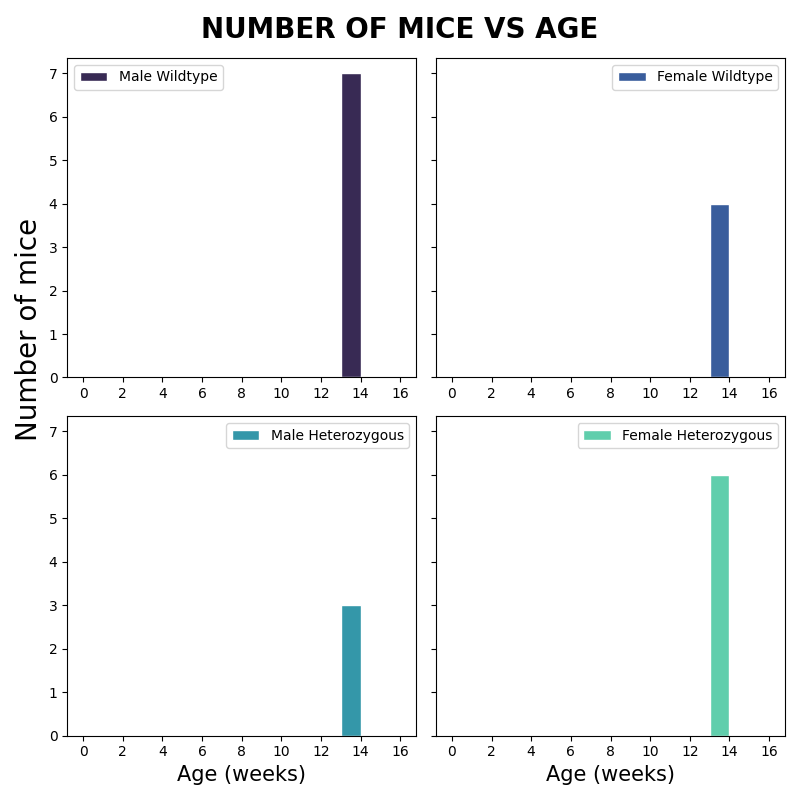
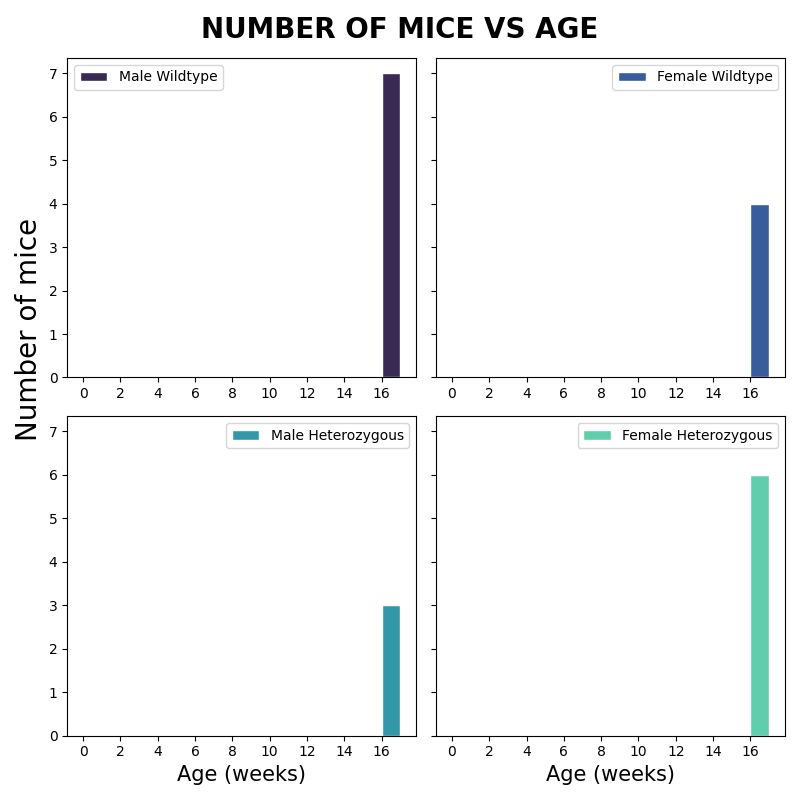
Fixed length of table saved in excel sample book
There was a mistake in the initialization of the longest_list_size in the code that prevented it to extract the data to excel sheet when the longest list was in the first location of d2.

diff --git a/code/combined_gui.py b/code/combined_gui.py
@@ -72,7 +72,7 @@ class Application(tk.Tk):
         # Call methods
         self.configure_basic_tk_properties()
         self.pack_all()
-        
+
 # reset button not programmed yet
     def configure_basic_tk_properties(self):
         """This method configures the basic tkinter esthetic properties for the GUI
@@ -154,6 +154,7 @@ class Application(tk.Tk):
         self.textbox4.insert(tk.END, self.cal.selection_get())
         self.final_month = self.cal.selection_get().strftime("%B")
 # pack and reset button not placed yet, just packed
+
     def pack_all(self):
 
         self.mainFrame1.place(x=0, y=0, height=600, width=1950)
@@ -184,6 +185,7 @@ class Application(tk.Tk):
         self.canvas1.place(x=100, y=40, height=600, width=800)
         self.canvas2.place(x=1000, y=40, height=600, width=800)
 # Data tale path reproducible to other devices, not only for this one
+
     def open_excel_file_location(self):
         """Open the File Explorer to select desired excel file
         """
@@ -196,6 +198,7 @@ class Application(tk.Tk):
         with open(filepath1, "r"):
             self.textbox1.insert(tk.END, filepath1)
 # Save path now reproducible to other devices, not only for this one
+
     def save_results(self):
         """Open the file Explorer to select desired location to save results
         """
@@ -261,12 +264,13 @@ class Application(tk.Tk):
         birth_FWt = []
         birth_MHet = []
         birth_FHet = []
-        
+
         for index, rows in df_MWt.iterrows():
             a = str(n_df['Date_of_birth'][index])
             birth_MWt.append(a[:10])
         print(len(birth_MWt))
 
+# There are 4 loops that are doing the same thing. There should be a way to reduce this
         df_FWt = pd.DataFrame(n_df.loc[(self.df['Sex'] == 'Female') & (
             n_df['Genotype'] == 'Wildtype') & (n_df['Status'] == 'Alive')])
 
@@ -289,9 +293,9 @@ class Application(tk.Tk):
             birth_FHet.append(a[:10])
 
         birthday = [birth_MWt, birth_FWt, birth_MHet, birth_FHet]
-        total_data = [df_MWt, df_FWt, df_MHet, df_FHet]
+        # total_data = [df_MWt, df_FWt, df_MHet, df_FHet]
         print(n_df)
-       
+
         self.d2 = []
 
         for i in range(len(birthday)):
@@ -299,19 +303,13 @@ class Application(tk.Tk):
             d1 = []
             j = 0
             for j in range(len(birthday[i])):
+
                 a1 = str(self.final_date)
-                print(a1)
                 aa = dt.strptime(a1, "%Y-%m-%d")
-
                 b1 = str(birthday[i][j])
-                print(b1)
                 bb = dt.strptime(b1, "%Y-%m-%d")
-                
                 bd = abs((bb - aa).days)
-                print(bd)
-
                 age_in_weeks = bd//7
-                print(age_in_weeks)
 
                 d1.append(age_in_weeks)
                 j = j + 1
@@ -335,7 +333,7 @@ class Application(tk.Tk):
         if len(self.d4) == 4:
             self.b = 3
         else:
-            self.b = int(max(self.d3))+4
+            self.b = int(max(self.d3))+1
 
         for i in range(self.b):
             self.listy.append(i)
@@ -351,7 +349,7 @@ class Application(tk.Tk):
         f = fig.gca()
         # ax.xaxis.set_major_locator(MaxNLocator(integer=True))
         # ax.yaxis.set_major_locator(MaxNLocator(integer=True))
-        
+
         f.hist(self.d2, bins=self.listy, color=self.colors)
         f.set_xlabel(r'Age (weeks)', fontsize=15)
         f.set_ylabel(r'Number of mice', fontsize=15)
@@ -361,11 +359,13 @@ class Application(tk.Tk):
         f.legend(['M_WT', 'F_WT', 'M_HET', 'F_HET'])
 
         if self.init_month != self.final_month:
-            self.plot_name = str(self.init_month) + "-"  + str(self.final_month) + "_histogram"
+            self.plot_name = str(self.init_month) + "-" + \
+                str(self.final_month) + "_histogram"
         else:
             self.plot_name = str(self.init_month) + "_histogram"
 
-        filepath_hist_plot = str(filepath2) + "/" + str(self.plot_name) + ".png"
+        filepath_hist_plot = str(filepath2) + "/" + \
+            str(self.plot_name) + ".png"
         hist_plot = fig.savefig(filepath_hist_plot)
 
         return fig
@@ -414,11 +414,13 @@ class Application(tk.Tk):
                      horizontalalignment='center', fontweight="bold", fontsize=20)
 
         if self.init_month != self.final_month:
-            self.plot_4_name = str(self.init_month) + "-"  + str(self.final_month) 
+            self.plot_4_name = str(self.init_month) + \
+                "-" + str(self.final_month)
         else:
             self.plot_4_name = str(self.init_month)
 
-        self.filepath_4_plot = str(filepath2) + "/" + str(self.plot_4_name)+".png"
+        self.filepath_4_plot = str(filepath2) + "/" + \
+            str(self.plot_4_name)+".png"
         hist_4_plot = plt.savefig(self.filepath_4_plot)
         self.hist_4_plot = openpyxl.drawing.image.Image(self.filepath_4_plot)
 
@@ -474,21 +476,21 @@ class FolderManager(Application):
     def create_jpeg_from_figures(self):
         pass
 
+
 class ExcelDevelopement(Application):
 
     def __init__(self):
 
         self.create_excel_workbook_months()
-    
+
     def create_excel_workbook_months(self):
 
-        d2 = [[6 ,6 ,6 ,5 ,5, 2, 2, 2, 2, 1, 0], [4, 3, 3, 2, 2, 1, 1, 1, 1, 0, 0, 0, 0], [0], [3, 1, 0]]
-        [[1, 1, 1, 1, 1, 0], [2, 2, 1, 1, 0], [2, 1, 1, 1, 0], [2, 1, 1, 1, 1]]
+        d2 = [[4, 4, 4, 4, 4, 4, 4], [4, 4, 4, 4], [4, 4, 4], [4, 4, 4, 4, 4, 4]]
         months_2021_excel_wb = Workbook()
-        worksheet_month_ws =  months_2021_excel_wb.active
+        worksheet_month_ws = months_2021_excel_wb.active
         worksheet_month_ws.title = "Changed Sheet"
 
-        longest_list_size = 0
+        longest_list_size = len(d2[0])
         list_dic = []
         i = 0
         j = 0
@@ -496,47 +498,49 @@ class ExcelDevelopement(Application):
         l = 0
 
         for k in range(4):
-                if len(d2[k])>len(d2[0]):
-                        longest_list_size = len(d2[k]) 
+            if len(d2[k]) > len(d2[0]):
+                longest_list_size = len(d2[k])
+            
 
-        dic_mic={}
-        for longest_list_size in range(longest_list_size,-1,-1):
-                dic_mic.setdefault(longest_list_size,[]).append(0)
+        dic_mic = {}
+        for longest_list_size in range(longest_list_size, -1, -1):
+            dic_mic.setdefault(longest_list_size, []).append(0)
 
         list_of_dic = []
-        data = ['Male Wildtype', 'Female Wildtype', 'Male Heterozygous', 'Female Heterozygous']
+        data = ['Male Wildtype', 'Female Wildtype',
+                'Male Heterozygous', 'Female Heterozygous']
 
         for i in range(4):
-                
-                dic_mice = dict()
-                num_of_mice = []
-                age_mice_weeks = []
-                for j in range(len(d2[i])):
 
-                        if d2[i][j] not in age_mice_weeks:
-                                age_mice_weeks.append(d2[i][j])
-                                num_of_mice = d2[i].count(d2[i][j])
-                                dic_mice.setdefault(d2[i][j],[]).append(num_of_mice)
+            dic_mice = dict()
+            num_of_mice = []
+            age_mice_weeks = []
+            for j in range(len(d2[i])):
 
-                dic_mice = {key: dic_mice.get(key, dic_mic[key]) for key in dic_mic}
-                df = pd.DataFrame.from_dict(dic_mice) 
-                list_dic.append(df)
-                
-                print(data[i])
-                print(df.to_string(index=False))
+                if d2[i][j] not in age_mice_weeks:
+                    age_mice_weeks.append(d2[i][j])
+                    num_of_mice = d2[i].count(d2[i][j])
+                    dic_mice.setdefault(d2[i][j], []).append(num_of_mice)
+
+            dic_mice = {key: dic_mice.get(
+                key, dic_mic[key]) for key in dic_mic}
+            df = pd.DataFrame.from_dict(dic_mice)
+            list_dic.append(df)
+
+            print(data[i])
+            print(df.to_string(index=False))
         print(list_dic)
 
         result = pd.concat(list_dic)
-        print(result.to_string( index = False))
+        print(result.to_string(index=False))
 
-        rows = dataframe_to_rows(result,index = False)
+        rows = dataframe_to_rows(result, index=False)
 
         for r_idx, row in enumerate(rows, 1):
-                for c_idx, value in enumerate(row, 1):
-                        worksheet_month_ws.cell(row=r_idx, column=c_idx, value=value)
+            for c_idx, value in enumerate(row, 1):
+                worksheet_month_ws.cell(row=r_idx, column=c_idx, value=value)
 
-        months_2021_excel_wb.save(filename = 'results/sample_book.xlsx')
-
+        months_2021_excel_wb.save(filename='results/sample_book.xlsx')
 
         # self.hist_4_plot.anchor(self.plot_name.cell('A20'))
         # self.plot_name.add_image(self.hist_4_plot)
@@ -550,5 +554,5 @@ if __name__ == "__main__":
     app.resizable(True, False)
     app.iconbitmap(r'../docs/mickey.ico')
     app.mainloop()
-    # fm = FolderManager()
-    # ed = ExcelDevelopement()
+    fm = FolderManager()
+    ed = ExcelDevelopement()
